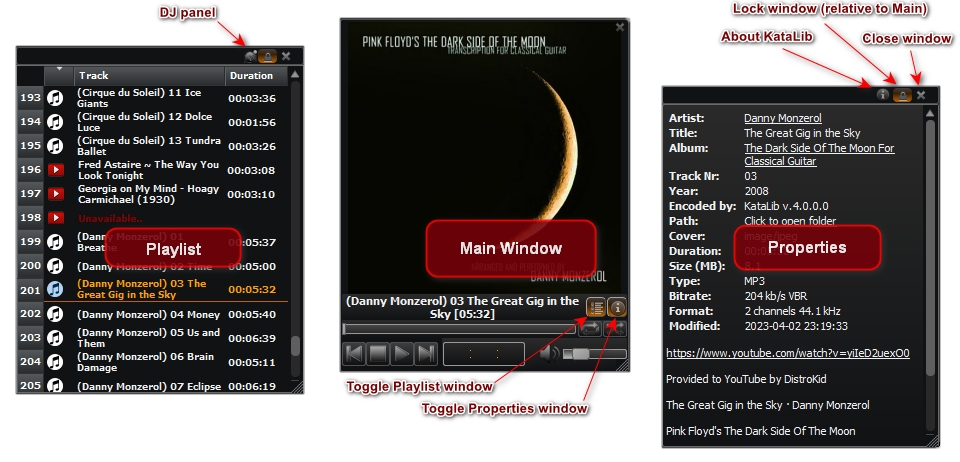
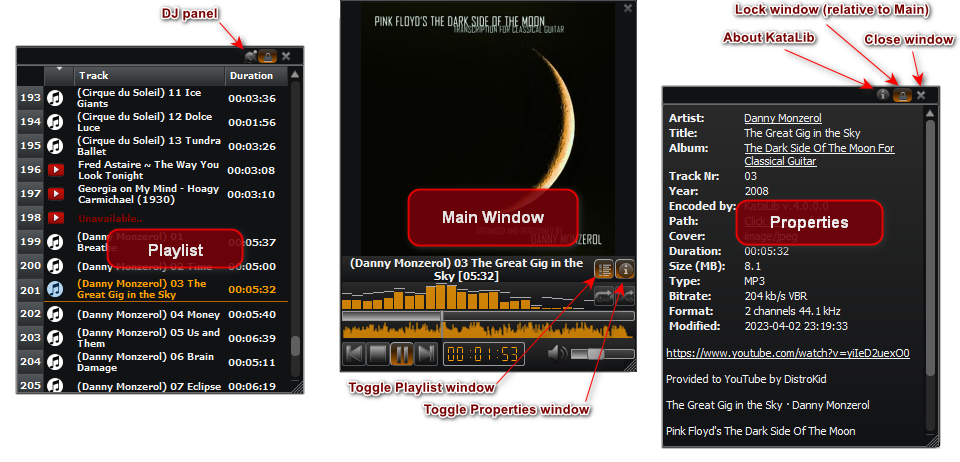
User Guide

diff --git a/docs/index.md b/docs/index.md
@@ -8,6 +8,7 @@
     * [Playlist](#playlist)
       * [DJ sub-panel](#dj-sub-panel)
       * [Find](#find)
+      * [Visualizer](#visualizer)
     * [Transport](#transport)
     * [Compact View](#compact-view)
     * [Library Collections](#library-collections)
@@ -37,6 +38,7 @@
     * [Library Collection](#library-collection)
     * [Playlist menu](#playlist-menu)
     * [Cover menu](#cover-menu)
+    * [Visualization menu](#visualization-menu)
     * [Compact View menu](#compact-view-menu)
     * [DropZone menu](#dropzone-menu)
 * [Shortcuts](#shortcuts)
@@ -256,7 +258,7 @@ Pressing the **Find** button opens the **Find Tracks** dialog that lets us searc
 - **YouTube** 
 
   ![FindYouTube.png](images/FindYouTube.png)  
-  We can search **YouTube** for a song, and if we find it we can **Add** it to the Playlist.  
+  We can search **YouTube** for a song, and if we find it we can **Add** it to the Playlist. Dropping it to the Playlist works as well.  
   The Clear Playlist button can be used to remove all the tracks from the Playlist, before we add the new-found ones.  
   If the **Playlists only** checkbox is checked, searching YouTube will return only Playlists, and if we add one of those, all its tracks will be added to our Playlist.  
   The **Clipboard Text** button lets us see the YouTube addresses that exist in the clipboard or to type one of our own.
@@ -271,6 +273,22 @@ Pressing the **Find** button opens the **Find Tracks** dialog that lets us searc
   Finally, we can search the currently loaded **Playlist** Tracks for a specific track,  and **Play** it. 
 
 
+#### Visualizer
+
+The Visualizer is a way to visualize the audio data of the currently playing track.  
+Can be in one of the three modes of visualization:
+
+* **Spectrum Analyzer**  
+  This is the default one, and it shows the frequency spectrum of the currently playing track.  
+![VizAnalyzer.png](images/VizAnalyzer.png)  
+* **Oscilloscope**  
+  This shows the waveform of the currently playing track.  
+![VizOsc.png](images/VizOsc.png)  
+* **Spectrogram**  
+  This shows the frequency spectrum of the currently playing track too, but also shows the time axis.  
+![VizSpec.png](images/VizSpec.png)  
+
+Clicking on the Visualizer will advance to the next type, while right-clicking will open the [Visualization menu](#visualization-menu).
 
 ### Transport
 
@@ -279,8 +297,10 @@ Pressing the **Find** button opens the **Find Tracks** dialog that lets us searc
 Mostly, self-explanatory playback controls: 
 
 - **Position bar** - Shows the position of the currently playing Track and lets us jump to a specific point. 
+- **Waveform** - Optical representation of the audio track that also lets us jump to a specific point.
 - **Previous Track** - Go to/Play the previous Track.
 - **Stop** - Stop playback.
+  Holding `Alt` when clicking, will fade out the track while holding `Shift` when clicking, will stop the playback when the track ends and will select the next one.
 - **Play/Pause** - Toggles Play/Pause. 
 - **Next Track** - Go to/Play the next Track. 
 - **Tap Tempo** - Opens the Tap Tempo dialog that lets you manually measure the BPM of the Track and add it to its metadata. 
@@ -297,8 +317,7 @@ Mostly, self-explanatory playback controls:
 
 ![CompactViewDetails.png](images/CompactViewDetails.png)
 
-This is a minimal view of the app, that consists of only a small, resizable Main window, that shows mostly the Cover Art of the currently playing (or selected) track and the Transport that controls the playback.  
-The transport is like the **Full View**'s [Transport](#transport), only smaller.  
+This is a minimal view of the app, that consists of only a small, resizable Main window, that shows mostly the Cover Art of the currently playing (or selected) track, the [Visualizer](#visualizer) and the [Transport](#transport) that controls the playback.  
 
 Above the Transport, there is the title of the currently selected/playing Track and two extra buttons that open/close the Playlist and Properties windows.  
 Double-clicking this title text, will show the file in Explorer or the YouTube url in the system's browser.  
@@ -873,6 +892,20 @@ These options are enabled/disabled depending on the type of the selection.
 - **Open externally**  
   Opens the cover with the system's image viewer.
 
+
+### Visualization menu
+
+![MenuVisualization.png](images/MenuVisualization.png)
+
+Here we select between the three modes of the [Visualizer](#visualizer)
+
+- **Spectrum Analyzer**
+- **Osciloscope**
+- **Spectrogram**
+
+We can also hide it altogether, by selecting the **None** option.  
+There is also the option to **Show the Waveform** (or not), under the Position bar of the [Transport](#transport).  
+The **Visualization Color** menu, lets us customize the color of the visualization widgets, or return to the defaults.
 
 ### Compact View menu
 
